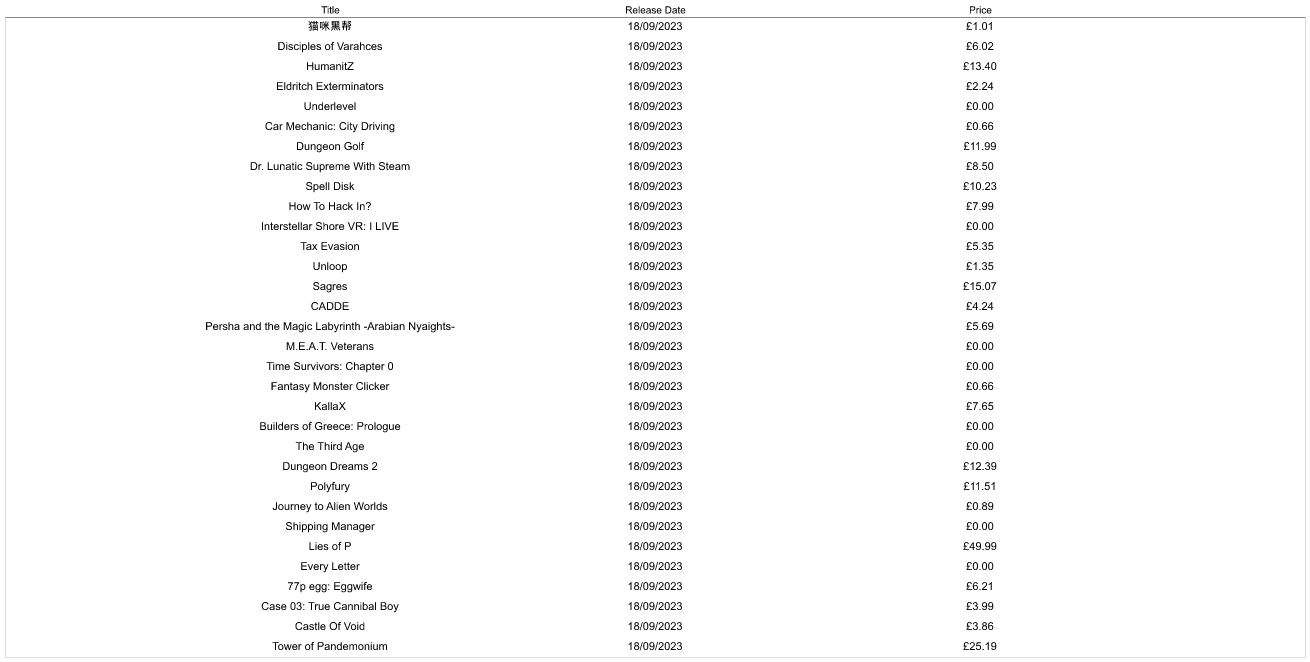
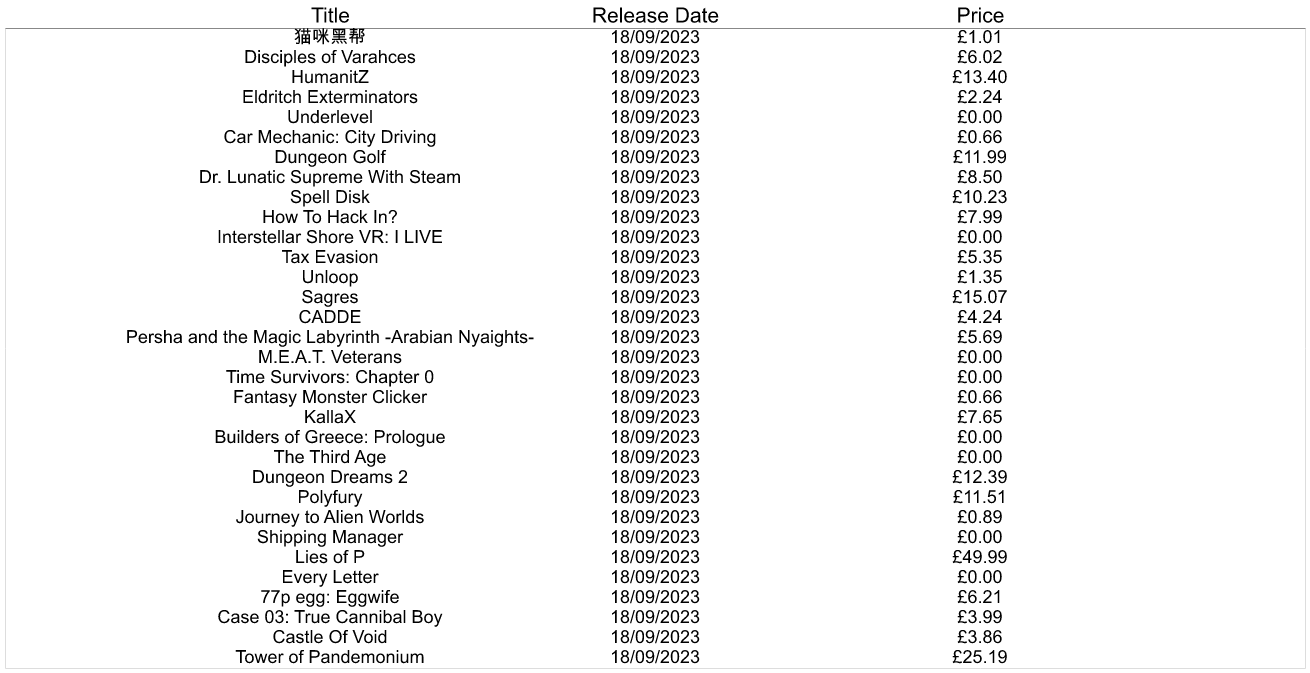
changed font size of tables

Changed region(s): [[0.0916, 0.0, 0.4275, 0.997], [0.4275, 0.0, 0.5496, 0.997], [0.7023, 0.0, 0.7939, 0.997]]

diff --git a/report/lambda_function.py b/report/lambda_function.py
@@ -313,7 +313,7 @@ def plot_table(df_releases: DataFrame, rows: int) -> Chart:
     """
     chart = alt.Chart(
         df_releases.reset_index().head(rows)
-    ).mark_text().transform_fold(
+    ).mark_text(fontSize=18).transform_fold(
         df_releases.columns.tolist()
     ).encode(
         alt.X(
@@ -323,7 +323,9 @@ def plot_table(df_releases: DataFrame, rows: int) -> Chart:
                 orient="top",
                 labelAngle=0,
                 title=None,
-                ticks=False
+                ticks=False,
+                labelFontSize=21,
+                labelLimit=400
             ),
             scale=alt.Scale(padding=10),
             sort=None,
@@ -666,7 +668,7 @@ def handler(event, context) -> None:
         create_report(game_df, config["DASHBOARD_URL"])
         print("Report created.")
 
-        # email_subscribers(conn, config)
+        email_subscribers(conn, config)
     finally:
         conn.close()
 
